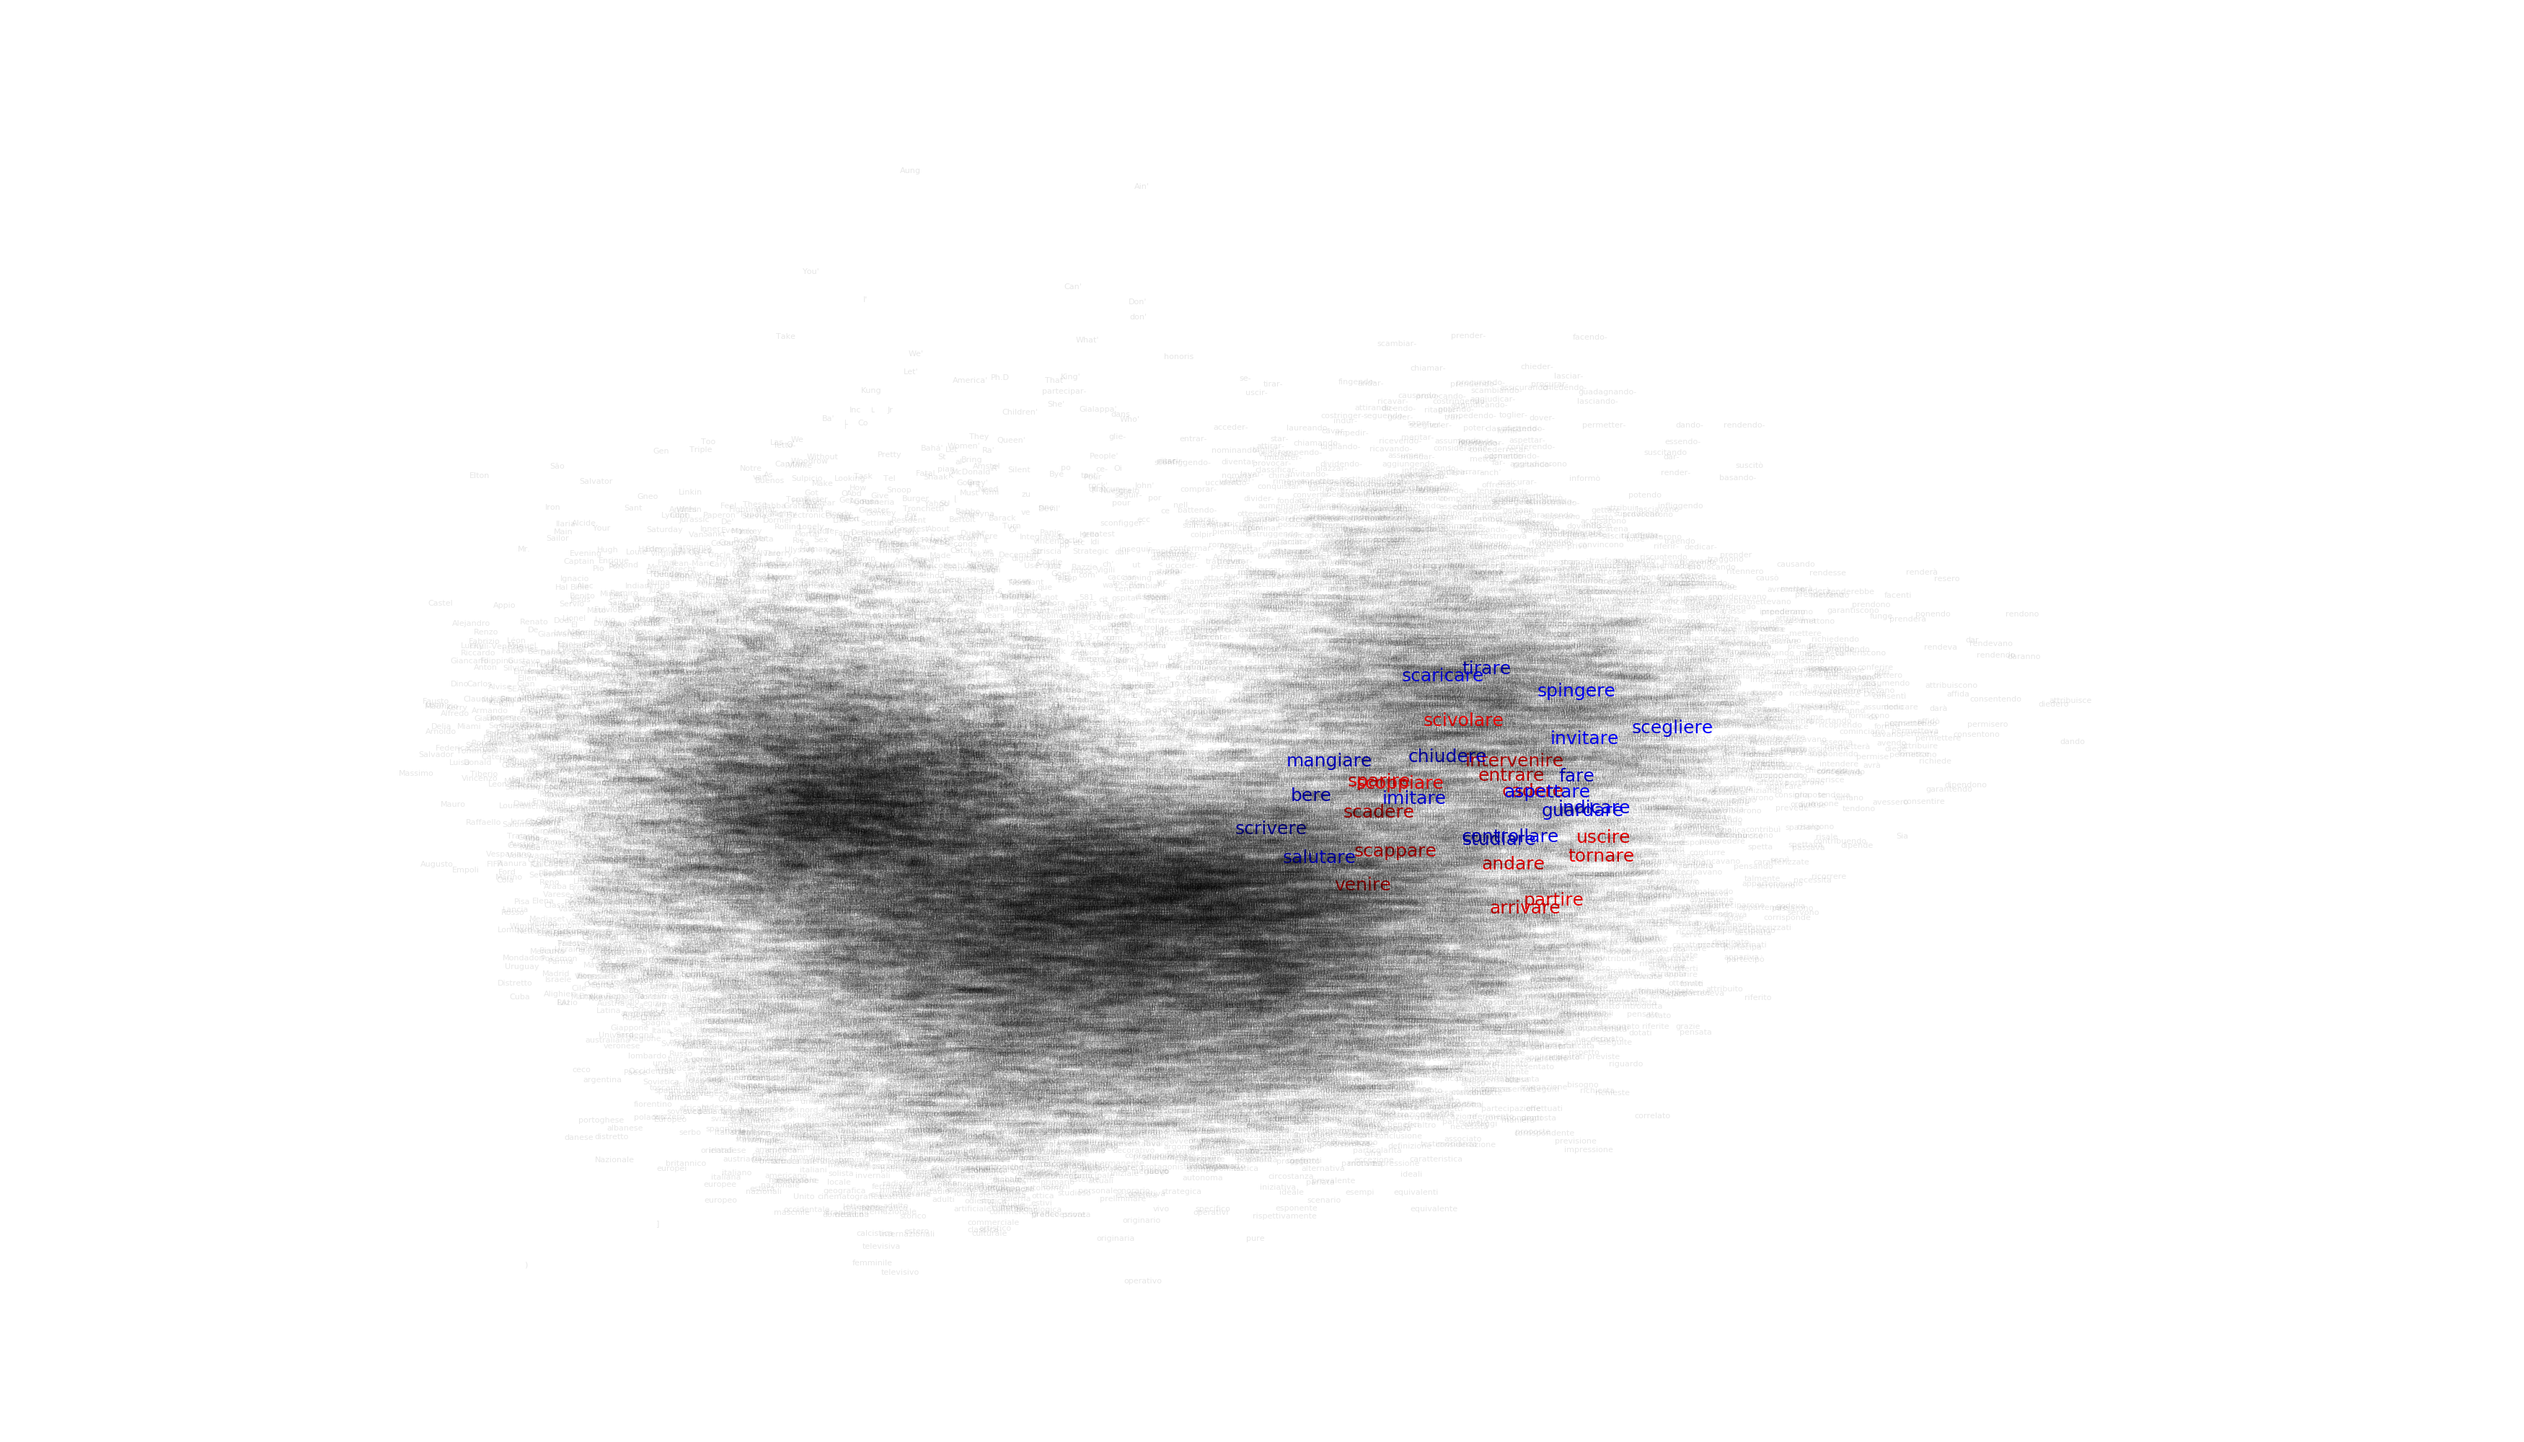
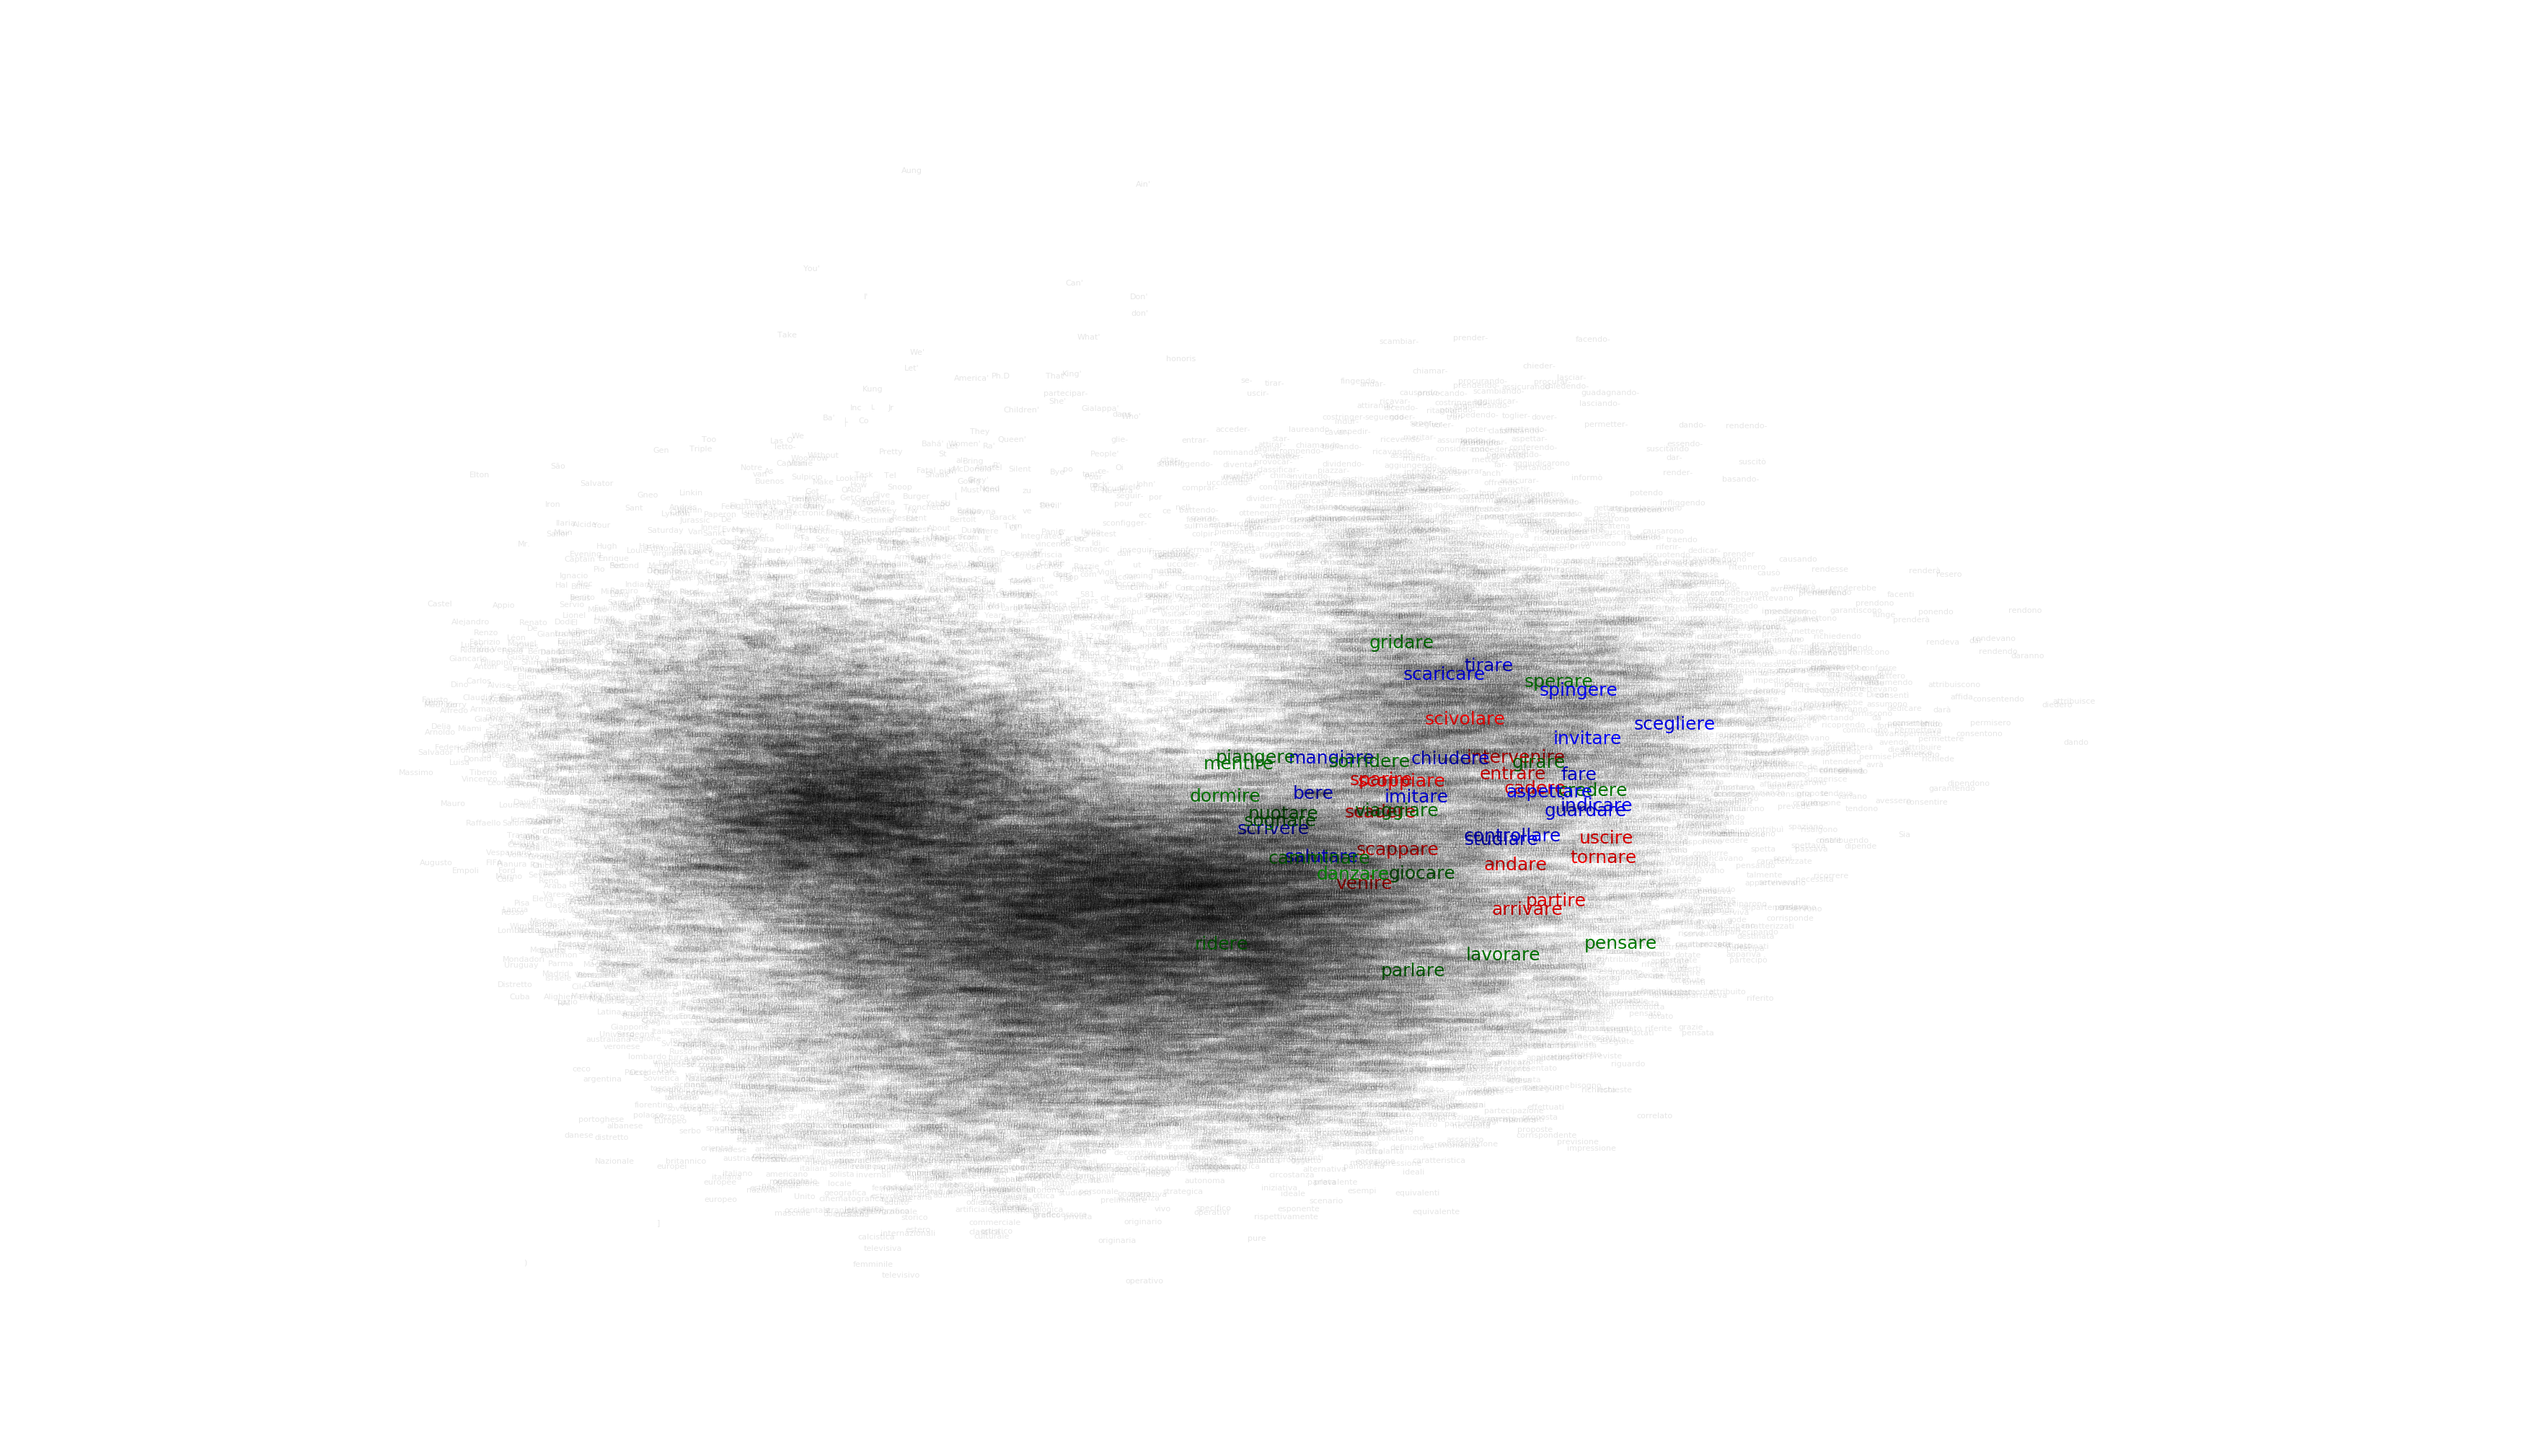
plot word embeddings

Changed region(s): [[0.1869, 0.341, 0.7163, 0.837]]

diff --git a/code/plot_verb_embeddings.py b/code/plot_verb_embeddings.py
@@ -35,7 +35,8 @@ with open(args.input, 'r') as f:
     lines=f.readlines()
     verbs_transitive = [l.strip() for l in lines[0].split(',')]
     verbs_unaccusative = [l.strip() for l in lines[1].split(',')]
-print(verbs_transitive, verbs_unaccusative)
+    verbs_unergative = [l.strip() for l in lines[2].split(',')]
+print(verbs_transitive, verbs_unaccusative, verbs_unergative)
 
 #### Plot verb embeddings
 for embeddings, embeddings_name in zip([embeddings_in, embeddings_out], ['embeddings_in', 'embeddings_out']):
@@ -52,6 +53,8 @@ for embeddings, embeddings_name in zip([embeddings_in, embeddings_out], ['embedd
             color, size, alpha = 'b', 18, 1
         elif word in verbs_unaccusative:
             color, size, alpha = 'r', 18, 1
+        elif word in verbs_unergative:
+            color, size, alpha = 'g', 18, 1
         else:
             color, size, alpha = 'k', 8, 0.1
 
